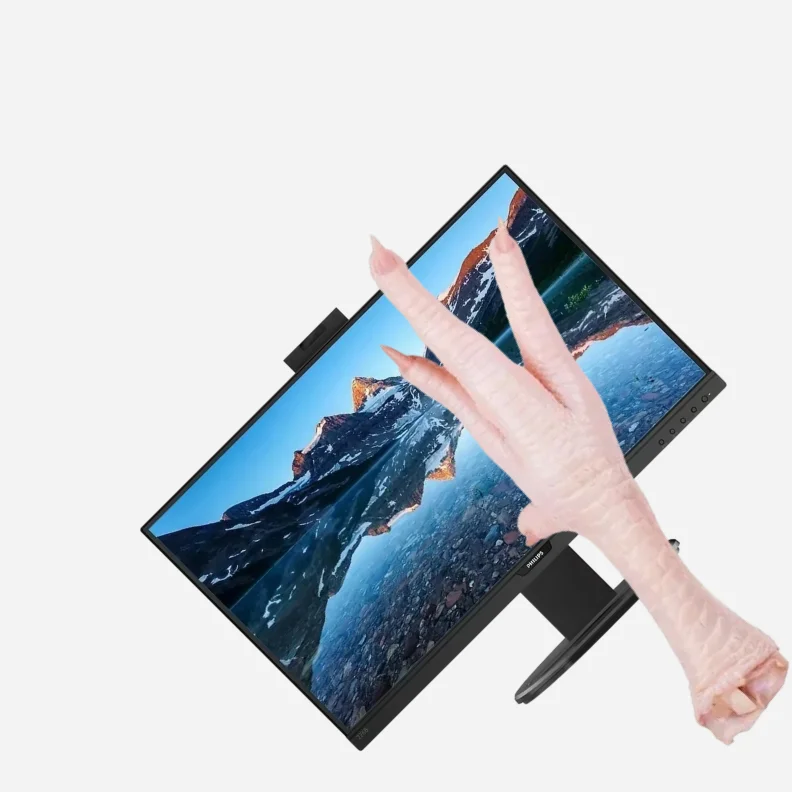
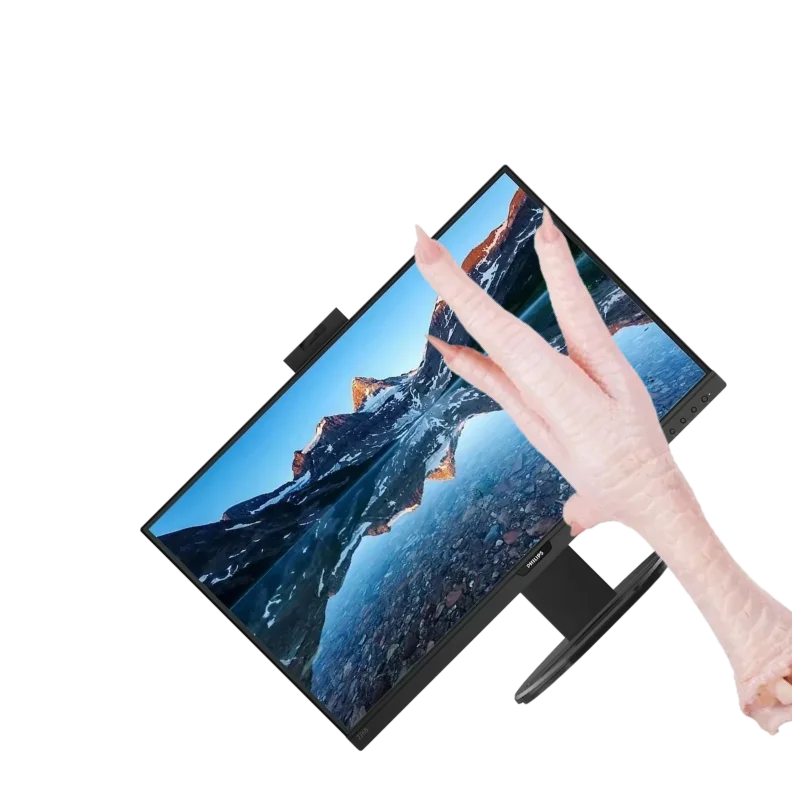
feat: обновлены левые фото карточек 2 и 5
Сравнил хеши всех 15 файлов источника и проекта — отличались ровно два:
  left-2.webp (Мария)    — кабель вместо дискет
  left-5.webp (Вячеслав) — монитор с рукой

Остальные 13 файлов идентичны, их не трогал.

Проверено:
  хеши совпадают с источником
  сервер отдаёт HTTP 200, размер 48904 / 48906 байт
  в рендере карточки 2 и 5 показывают новые изображения

Кеш-бастинг v=35.

Changed region(s): [[0.4545, 0.2424, 1.0, 0.9394]]

diff --git a/index.html b/index.html
@@ -6,8 +6,8 @@
 <meta name="theme-color" content="#F3F3F3">
 <title>ПЕТУШКИ — молодая IT-компания</title>
 <meta name="description" content="ПЕТУШКИ — молодая IT-компания. Берёмся за задачи любой сложности: от сайтов до комплексных корпоративных решений.">
-<link rel="stylesheet" href="css/fonts.css?v=34">
-<link rel="stylesheet" href="css/style.css?v=34">
+<link rel="stylesheet" href="css/fonts.css?v=35">
+<link rel="stylesheet" href="css/style.css?v=35">
 </head>
 <body>
 
@@ -226,9 +226,10 @@
 
 <script src="https://cdn.jsdelivr.net/npm/gsap@3.12.5/dist/gsap.min.js"></script>
 <script src="https://cdn.jsdelivr.net/npm/gsap@3.12.5/dist/ScrollTrigger.min.js"></script>
-<script src="js/main.js?v=34"></script>
+<script src="js/main.js?v=35"></script>
 </body>
 </html>
+
 
 
 
